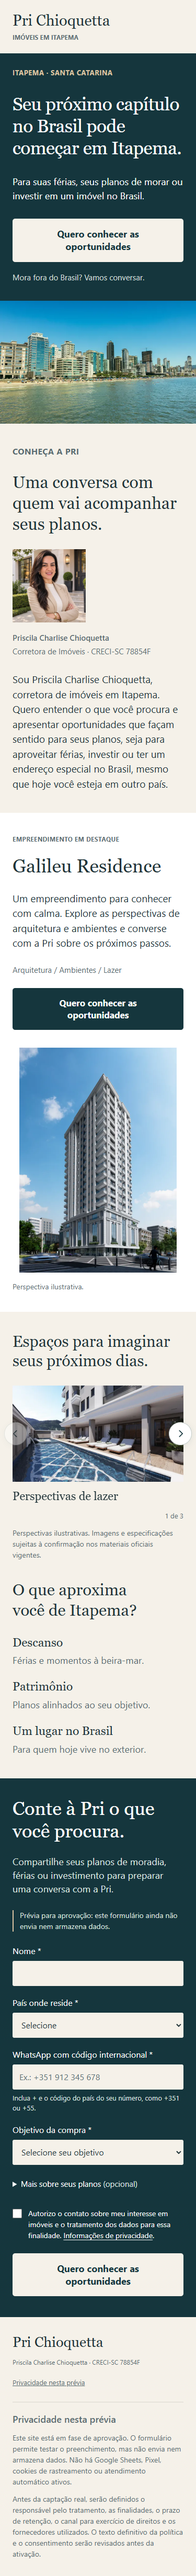
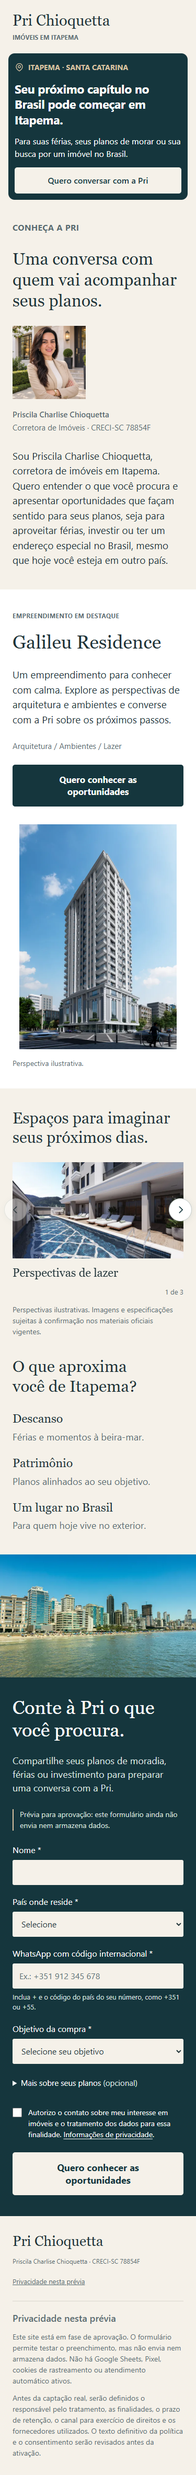
fix: compact mobile hero and move Itapema panorama above form

diff --git a/styles/main.css b/styles/main.css
@@ -8,3 +8,22 @@
 /* Quebras editoriais da referência aprovada, apenas em telas amplas. */
 @media(min-width:1101px){.hero-title-line{display:block}.hero-copy{padding-bottom:13px}}
 .sr-only{position:absolute;width:1px;height:1px;padding:0;margin:-1px;overflow:hidden;clip:rect(0,0,0,0);white-space:nowrap;border:0}
+.mobile-content,.mobile-location-icon{display:none}
+/* Ajuste solicitado: cartão compacto e panorama antes do formulário só no mobile. */
+@media(max-width:767px){
+  #conteudo{display:flex;flex-direction:column}
+  .hero{display:contents}
+  .hero-copy{order:0;margin:0 16px;padding:17px 12px 12px;background:var(--petrol);border-radius:12px;gap:0;min-width:0}
+  .hero-location{display:flex;align-items:center;gap:8px;font-size:14px;letter-spacing:0;margin-bottom:16px}
+  .mobile-location-icon{display:block;width:18px;height:18px;flex-shrink:0;fill:none;stroke:currentColor;stroke-width:1.8;stroke-linecap:round;stroke-linejoin:round}
+  .hero h1{font-family:var(--body);font-size:clamp(23px,5.6vw,25px);font-weight:700;line-height:1.3;letter-spacing:-.015em;max-width:none}
+  .hero-description{font-size:16px;line-height:1.5;margin-top:14px;max-width:none}
+  .hero .button{min-height:50px;width:100%;margin-top:14px;padding:12px 14px;font-size:16px;font-weight:600}
+  .hero-note{display:none}
+  .hero .desktop-content{display:none}
+  .hero .mobile-content{display:inline}
+  .broker{order:1}.property{order:2}.gallery-section{order:3}.region{order:4}
+  .hero-image{order:5;min-height:0;width:100%}
+  .hero-image img{width:100%;height:auto;aspect-ratio:1.6;object-fit:cover;object-position:50% 55%}
+  .contact{order:6}
+}

diff --git a/config.js b/config.js
@@ -16,6 +16,10 @@ export default {
     desktopTitleLines: ['Seu próximo', 'capítulo no Brasil', 'pode começar', 'em Itapema.'],
     description: 'Para suas férias, seus planos de morar ou investir em um imóvel no Brasil.',
     note: 'Mora fora do Brasil? Vamos conversar.',
+    mobile: {
+      description: 'Para suas férias, seus planos de morar ou sua busca por um imóvel no Brasil.',
+      ctaLabel: 'Quero conversar com a Pri'
+    },
     image: {
       name: 'itapema-santa-catarina', widths: [640, 1280, 1920], width: 6875, height: 4583,
       alt: 'Panorama da orla de Itapema, com praia, edifícios e mar.',

diff --git a/templates/index.html b/templates/index.html
@@ -34,7 +34,7 @@
   <main id="conteudo">
     <section id="inicio" class="hero" aria-labelledby="hero-title">
       <div class="hero-copy">
-        <p class="eyebrow hero-location">{{location}}</p>
+        <p class="eyebrow hero-location"><svg class="mobile-location-icon" viewBox="0 0 24 24" aria-hidden="true"><path d="M20 10c0 6-8 11-8 11S4 16 4 10a8 8 0 1 1 16 0Z"/><circle cx="12" cy="10" r="3"/></svg>{{location}}</p>
         <h1 id="hero-title">{{heroTitle}}</h1>
         <p class="hero-description">{{heroDescription}}</p>
         {{heroCta}}

diff --git a/tools/relatar-qa.py b/tools/relatar-qa.py
@@ -4,7 +4,7 @@ p=pathlib.Path(__file__).resolve().parents[1];r=json.loads((p/'validacao/resulta
 lines=['# Validação da primeira versão funcional','', '13/11/2026 · Microsoft Edge / Chromium headless, em Windows.','', '## Resultado','', '| Largura | Carrossel visível | Toque | Overflow da página | Subrecursos iniciais |','|---|---|---|---|---|']
 for v in r['viewports']:
  lines.append(f"| {v['width']} px | {v['carouselVisible']} imagem(ns) | {v['touch']} | Não | {v['initialResourceBytes']/1000:.1f} kB |")
-lines += ['', 'Os valores de recursos são `encodedBodySize` dos subrecursos observados na primeira tela, antes do percurso pela página; não incluem o HTML (16,5 kB), cabeçalhos ou efeitos de compressão em produção. Incluem possíveis antecipações de imagens lazy do navegador. Não são nota Lighthouse nem medição em rede móvel.', '', '## Verificações aprovadas', '', '- Seis larguras sem overflow horizontal da página, inclusive depois das interações.', '- Hero com foto WebP e `object-fit: cover`; no mobile a foto vem imediatamente depois do bloco de texto/CTA e antes da Pri.', '- Identificação completa, profissão e CRECI presentes; retrato profissional no lugar da captura de Instagram.', '- Três imagens da seleção anterior; duas por tela a partir de 768 px e uma abaixo desse limite.', '- Setas, estados inicial/final e navegação por teclado (esquerda/direita, Home/End).', '- Gesto nativo de deslize emulado por eventos de toque CDP nas três larguras mobile.', '- Todas as imagens da página decodificadas, sem recursos com erro HTTP ou erros JavaScript.', '- Validação de telefone internacional, campos obrigatórios e consentimento desmarcado. Campos de qualificação opcionais disponíveis em bloco expansível.', '- Mensagem de validação explicita que não houve envio ou armazenamento; zero requisições POST durante os testes.', '- Zero requisições externas, cookies, localStorage ou sessionStorage nesta versão.', '- Leitura das UTMs permitidas na página atual, sem persistência ou transmissão.', '- Um H1, title, description, metadados Open Graph, imagem OG 1200 × 630, idioma pt-BR, robots noindex e dimensões das imagens.', '- Conteúdo em HTML acessível sem JavaScript, com envio desabilitado.', '- Preferência por movimento reduzido respeitada.', '- Function reservada testada como módulo: GET 405, POST 503 e `ok: false`.', '', '## Capturas', '', 'Os arquivos em `validacao/pagina-LARGURA.png` são capturas completas do navegador, anteriores ao preenchimento de dados sintéticos. `hero-LARGURA.png` registra a primeira tela e `carrossel-LARGURA.png` registra a galeria. As seis versões foram revisadas visualmente, com atenção a recortes, legibilidade e alinhamento.', '', '## Limites e pendências', '']
+lines += ['', 'Os valores de recursos são `encodedBodySize` dos subrecursos observados na primeira tela, antes do percurso pela página; não incluem o HTML (16,5 kB), cabeçalhos ou efeitos de compressão em produção. Incluem possíveis antecipações de imagens lazy do navegador. Não são nota Lighthouse nem medição em rede móvel.', '', '## Verificações aprovadas', '', '- Seis larguras sem overflow horizontal da página, inclusive depois das interações.', '- Mobile com cartão inicial compacto, ícone de localização e CTA “Quero conversar com a Pri”; foto WebP com `object-fit: cover` imediatamente antes do formulário. Tablet e desktop preservados, com comparação de pixels nas larguras 768, 1280 e 1440.', '- Identificação completa, profissão e CRECI presentes; retrato profissional no lugar da captura de Instagram.', '- Três imagens da seleção anterior; duas por tela a partir de 768 px e uma abaixo desse limite.', '- Setas, estados inicial/final e navegação por teclado (esquerda/direita, Home/End).', '- Gesto nativo de deslize emulado por eventos de toque CDP nas três larguras mobile.', '- Todas as imagens da página decodificadas, sem recursos com erro HTTP ou erros JavaScript.', '- Validação de telefone internacional, campos obrigatórios e consentimento desmarcado. Campos de qualificação opcionais disponíveis em bloco expansível.', '- Mensagem de validação explicita que não houve envio ou armazenamento; zero requisições POST durante os testes.', '- Zero requisições externas, cookies, localStorage ou sessionStorage nesta versão.', '- Leitura das UTMs permitidas na página atual, sem persistência ou transmissão.', '- Um H1, title, description, metadados Open Graph, imagem OG 1200 × 630, idioma pt-BR, robots noindex e dimensões das imagens.', '- Conteúdo em HTML acessível sem JavaScript, com envio desabilitado.', '- Preferência por movimento reduzido respeitada.', '- Function reservada testada como módulo: GET 405, POST 503 e `ok: false`.', '', '## Capturas', '', 'Os arquivos em `validacao/pagina-LARGURA.png` são capturas completas do navegador, anteriores ao preenchimento de dados sintéticos. `hero-LARGURA.png` registra a primeira tela e `carrossel-LARGURA.png` registra a galeria. As seis versões foram revisadas visualmente, com atenção a recortes, legibilidade e alinhamento.', '', '## Limites e pendências', '']
 lines += ['- '+x for x in r['limitations']]
 lines += ['- A autorização comercial do retrato continua pendente; a exibição atual é de revisão local.', '- Associação dos ambientes e direitos de uso precisam de confirmação antes da versão pública.', '- Integração real, credenciais, banco, privacidade final, Cloudflare e domínio continuam pendentes.', '- Não foi feita auditoria WCAG completa; foram verificados rótulos, foco, teclado, textos alternativos e movimento reduzido.', '- Cabeçalhos de segurança do Pages foram conferidos no código; sua aplicação no Cloudflare deve ser validada na primeira prévia remota autorizada.', '', '## Reproduzir o QA', '', 'O site não depende de Playwright. Para repetir somente os testes de desenvolvimento, usar uma instalação de Playwright já disponível e indicar `PLAYWRIGHT_MODULE` e, se necessário, `BROWSER_EXECUTABLE`; executar `node tools/test-browser.mjs`. O teste inicia e encerra seu próprio servidor em 127.0.0.1:4177 e não publica nada.', '', 'O JSON detalhado da execução está em `validacao/resultados.json`.']
 (p/'docs/VALIDACAO.md').write_text('\n'.join(lines)+'\n',encoding='utf-8')

diff --git a/docs/ENTREGA.md b/docs/ENTREGA.md
@@ -8,7 +8,7 @@ Primeira landing page funcional criada na pasta `C:\Users\Usuario\Documents\A- C
 
 Abrir `dist/index.html` no navegador ou executar `node tools/serve.mjs` nessa pasta e acessar o endereço local impresso. Para editar os dados e reconstruir: `config.js` e `node tools/build.mjs`.
 
-A referência desktop foi preservada em cores, tipografia, hero dividido, título com quebras editoriais, apresentação pessoal, fachada vertical e encerramento com formulário. O hero mobile apresenta a foto da cidade imediatamente após texto e CTA. A captura provisória de Instagram foi substituída pelo retrato profissional disponível para revisão, com nome completo, profissão e CRECI informados pelo usuário.
+A referência desktop foi preservada em cores, tipografia, hero dividido, título com quebras editoriais, apresentação pessoal, fachada vertical e encerramento com formulário. Após o ajuste solicitado, o hero mobile usa cartão compacto com título menor, localização com ícone e CTA “Quero conversar com a Pri”. A foto da cidade aparece imediatamente acima do formulário, apenas no mobile. A captura provisória de Instagram foi substituída pelo retrato profissional disponível para revisão, com nome completo, profissão e CRECI informados pelo usuário.
 
 ## Arquivos criados e alterados
 
@@ -21,7 +21,7 @@ O build gera `dist/index.html`, CSS, JS, assets, robots, sitemap e rotas da Func
 ## Comportamento entregue
 
 - Carrossel com três imagens, duas visíveis a partir de 768 px e uma no mobile, sem autoplay; setas laterais, limites, movimento suave, teclado e toque nativo. Legendas e aviso de perspectivas ilustrativas preservados.
-- CTA consistente: “Quero conhecer as oportunidades”.
+- CTA padrão: “Quero conhecer as oportunidades”; no cartão inicial mobile, “Quero conversar com a Pri”, conforme a referência enviada.
 - Formulário com quatro dados principais, consentimento desmarcado e qualificação opcional expansível. Nenhuma faixa de preço inventada.
 - Nenhuma integração ativa, falso recibo de lead, Pixel, cookie, POST ou armazenamento no navegador. A validação é local e explicitamente identificada como prévia.
 - Configuração centralizada para marca, corretora, CRECI, imóvel, imagens, legendas, contatos, links, textos e CTA; HTML renderizado no build para leitura sem JavaScript e SEO.

diff --git a/docs/VALIDACAO.md b/docs/VALIDACAO.md
@@ -6,19 +6,19 @@
 
 | Largura | Carrossel visível | Toque | Overflow da página | Subrecursos iniciais |
 |---|---|---|---|---|
-| 320 px | 1 imagem(ns) | aprovado (CDP) | Não | 161.5 kB |
-| 375 px | 1 imagem(ns) | aprovado (CDP) | Não | 161.5 kB |
-| 430 px | 1 imagem(ns) | aprovado (CDP) | Não | 161.5 kB |
-| 768 px | 2 imagem(ns) | não aplicável | Não | 281.6 kB |
-| 1280 px | 2 imagem(ns) | não aplicável | Não | 281.6 kB |
-| 1440 px | 2 imagem(ns) | não aplicável | Não | 453.8 kB |
+| 320 px | 1 imagem(ns) | aprovado (CDP) | Não | 162.8 kB |
+| 375 px | 1 imagem(ns) | aprovado (CDP) | Não | 249.6 kB |
+| 430 px | 1 imagem(ns) | aprovado (CDP) | Não | 249.6 kB |
+| 768 px | 2 imagem(ns) | não aplicável | Não | 282.9 kB |
+| 1280 px | 2 imagem(ns) | não aplicável | Não | 282.9 kB |
+| 1440 px | 2 imagem(ns) | não aplicável | Não | 455.1 kB |
 
 Os valores de recursos são `encodedBodySize` dos subrecursos observados na primeira tela, antes do percurso pela página; não incluem o HTML (16,5 kB), cabeçalhos ou efeitos de compressão em produção. Incluem possíveis antecipações de imagens lazy do navegador. Não são nota Lighthouse nem medição em rede móvel.
 
 ## Verificações aprovadas
 
 - Seis larguras sem overflow horizontal da página, inclusive depois das interações.
-- Hero com foto WebP e `object-fit: cover`; no mobile a foto vem imediatamente depois do bloco de texto/CTA e antes da Pri.
+- Mobile com cartão inicial compacto, ícone de localização e CTA “Quero conversar com a Pri”; foto WebP com `object-fit: cover` imediatamente antes do formulário. Tablet e desktop preservados, com comparação de pixels nas larguras 768, 1280 e 1440.
 - Identificação completa, profissão e CRECI presentes; retrato profissional no lugar da captura de Instagram.
 - Três imagens da seleção anterior; duas por tela a partir de 768 px e uma abaixo desse limite.
 - Setas, estados inicial/final e navegação por teclado (esquerda/direita, Home/End).

diff --git a/README.md b/README.md
@@ -42,7 +42,7 @@ Os JPG/PNG/MP4 originais existentes na raiz foram preservados e excluídos do Gi
 1. Copiar o projeto para outra pasta/repositório, sem os originais da Pri, sem `.git` e sem `validacao`.
 2. Editar `config.js`: marca, dados profissionais, CRECI, apresentação, imóvel, textos, imagens, legendas e CTA.
 3. Adicionar as versões de imagem a `assets/images` e definir `name`, `widths`, `width`, `height` e `alt`. `name` é o nome sem tamanho e extensão: por exemplo `itapema-santa-catarina` referencia `itapema-santa-catarina-640.webp`, `-1280.webp`, `-1920.webp` e alternativas JPG.
-4. Ajustar `hero.desktopTitleLines` para controlar as quebras no desktop. Se as linhas não recompõem exatamente `hero.title`, o gerador usa o título normal. No mobile a quebra é natural.
+4. Os textos específicos do cartão mobile estão em `hero.mobile`; a foto de Itapema aparece antes do formulário apenas no mobile. Ajustar `hero.desktopTitleLines` para controlar as quebras no desktop. Se as linhas não recompõem exatamente `hero.title`, o gerador usa o título normal. No mobile a quebra é natural.
 5. Atualizar `seo.siteUrl` e a imagem Open Graph 1200 × 630. Essa edição de metadados não configura um domínio.
 6. Se houver WhatsApp oficial, preencher `broker.whatsapp` em formato internacional sem espaços, como `+DDINUMERO`. O link só aparece quando o valor é válido; nenhum número fictício foi cadastrado.
 7. Manter `form.mode: 'preview'` até implementar e aprovar a integração. O build rejeita outro modo nesta versão.
